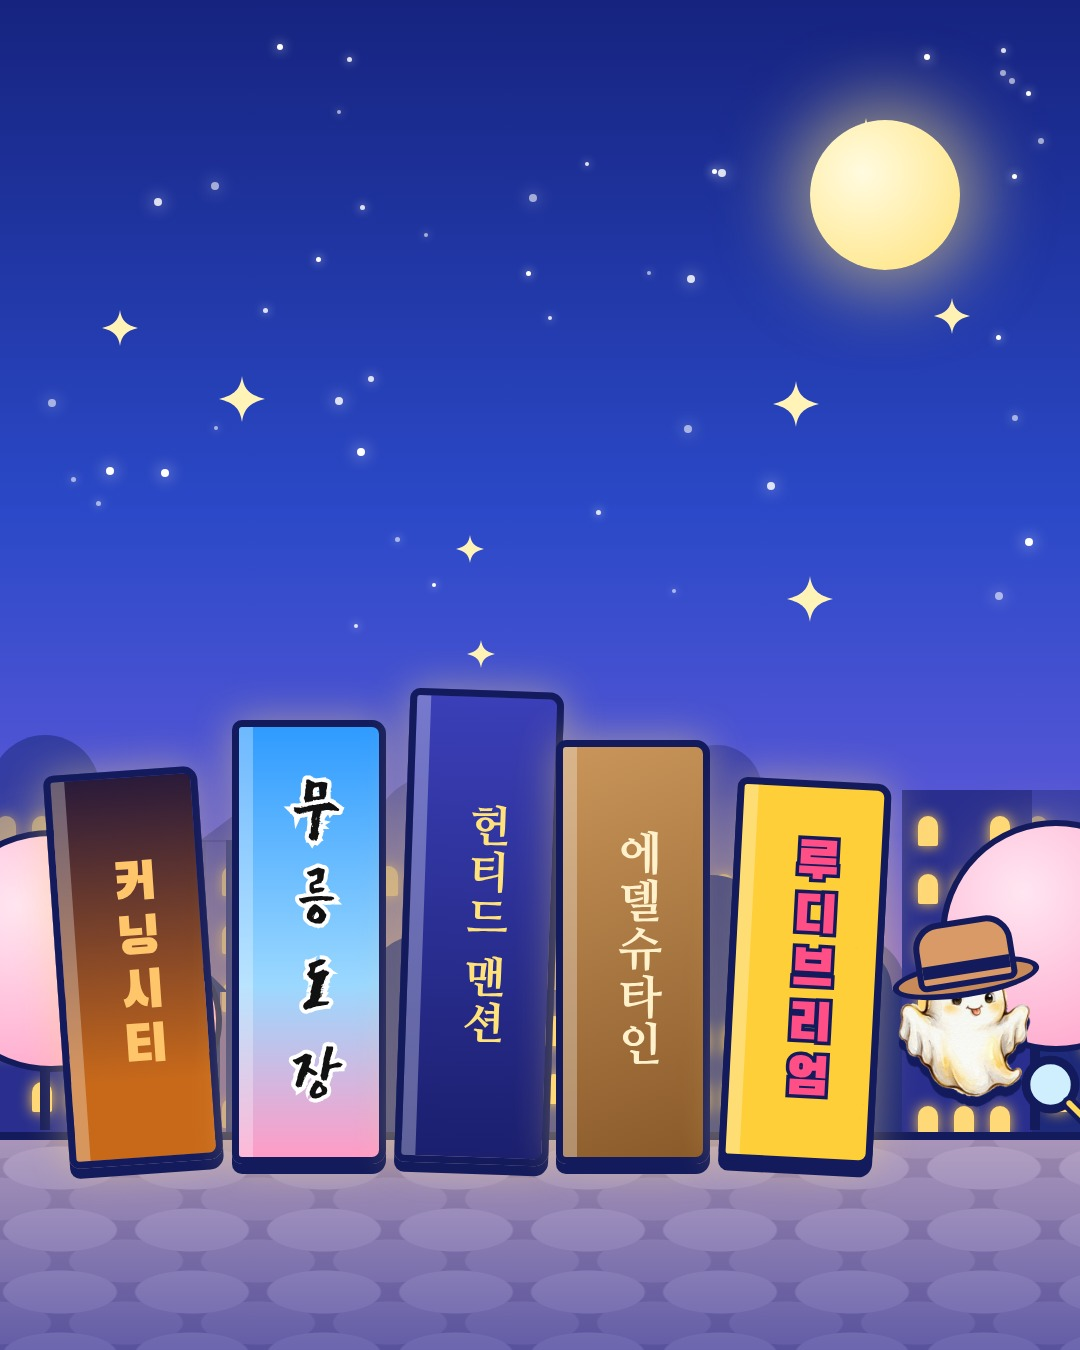
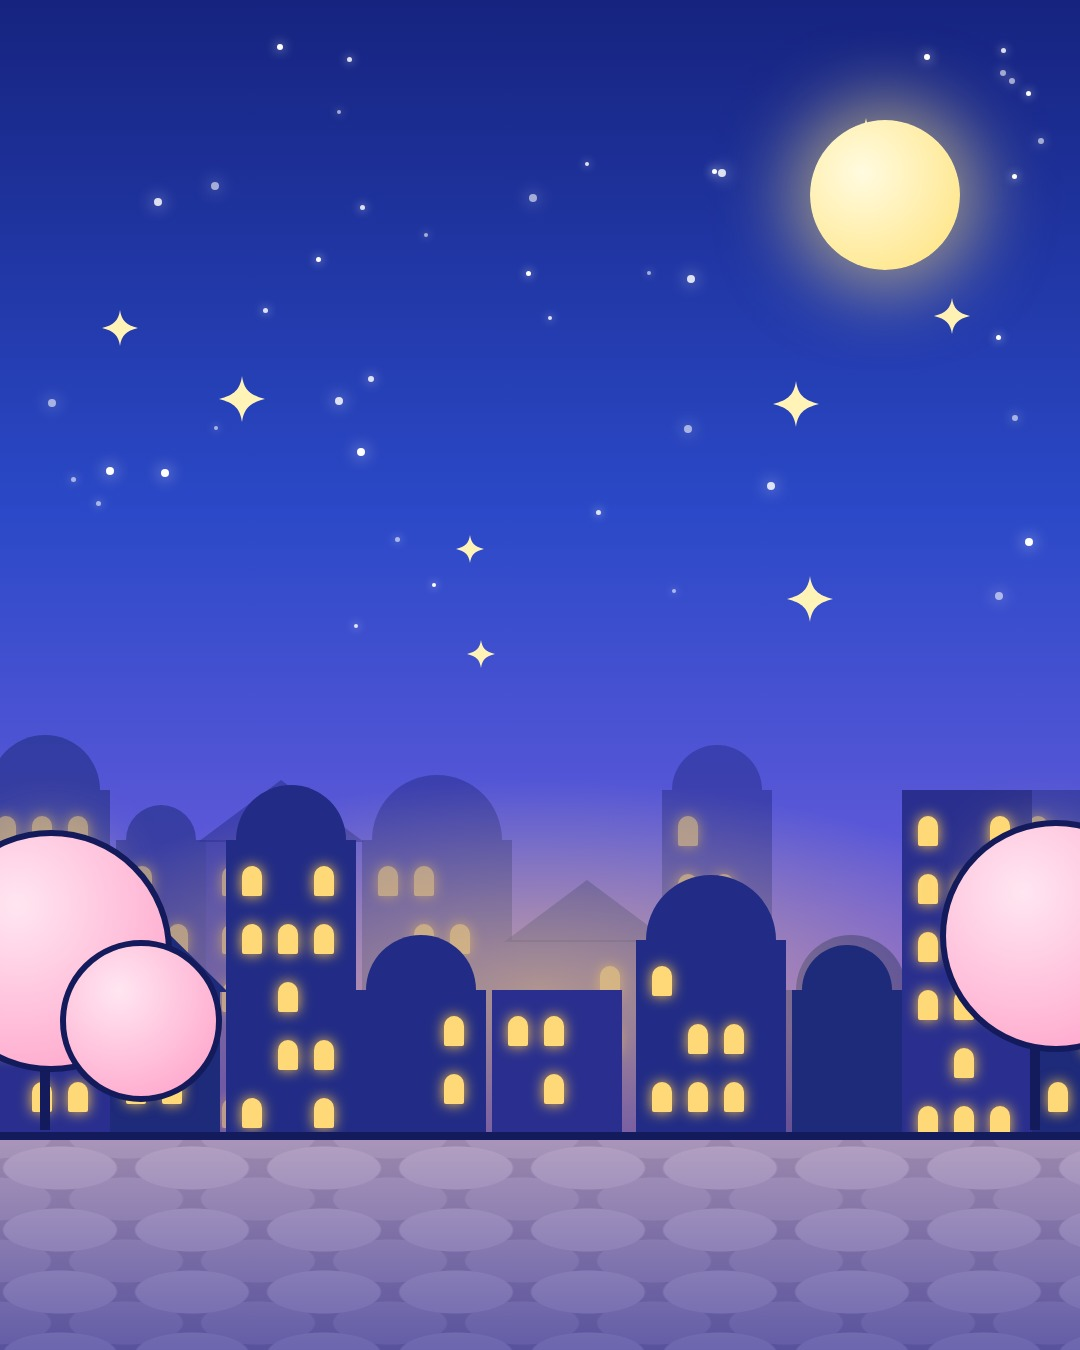
메이플 스토리: 테마를 작고 귀여운 책 캐릭터로
Claude-Session: https://claude.ai/code/session_01RCovqCTjag3WJkZFny7UQu

Changed region(s): [[0.0306, 0.4978, 1.0, 0.8711]]

diff --git a/tools/ig/templates/maple-story.html b/tools/ig/templates/maple-story.html
@@ -11,6 +11,18 @@ html,body{margin:0;width:1080px;height:1920px;font-family:P;font-weight:800;over
 .pill{display:inline-block;font-size:30px;border:5px solid #141B5C;border-radius:999px;padding:8px 22px}
 .chip{display:inline-flex;align-items:center;gap:10px;background:#fff;color:#141B5C;border:6px solid #141B5C;border-radius:22px;box-shadow:0 8px 0 #141B5C;font-size:34px;padding:10px 22px}
 .star{position:absolute;width:6px;height:6px;border-radius:50%;background:#fff;box-shadow:0 0 14px #fff}
+.bud{position:absolute;bottom:200px;width:150px;z-index:8;text-align:center}
+.bk{position:relative;margin:0 auto;width:116px;border:6px solid #141B5C;border-radius:24px 28px 28px 24px;box-shadow:0 10px 0 #141B5C,0 0 36px rgba(255,220,120,.5);overflow:hidden}
+.bk:before{content:"";position:absolute;left:0;top:0;bottom:0;width:16px;background:rgba(255,255,255,.35)}
+.bk:after{content:"";position:absolute;left:30px;top:16px;width:34px;height:14px;border-radius:10px;background:rgba(255,255,255,.55)}
+.face{position:absolute;left:16px;right:0;top:50%;height:60px;margin-top:-10px}
+.eye{position:absolute;top:0;width:13px;height:18px;border-radius:50%;background:#141B5C}
+.eye:after{content:"";position:absolute;left:4px;top:4px;width:6px;height:6px;border-radius:50%;background:#fff}
+.blush{position:absolute;top:20px;width:20px;height:11px;border-radius:50%;background:#FF7FA8;opacity:.75}
+.mouth{position:absolute;left:50%;top:22px;margin-left:-11px;width:22px;height:11px;border:5px solid #141B5C;border-top:0;border-radius:0 0 22px 22px}
+.hat{position:absolute;left:50%;transform:translateX(-50%);font-size:52px;z-index:9;filter:drop-shadow(0 5px 0 #141B5C)}
+.nm{display:inline-block;margin-top:18px;font-size:24px;color:#141B5C;background:#fff;border:5px solid #141B5C;border-radius:999px;padding:5px 14px;box-shadow:0 5px 0 #141B5C;white-space:nowrap}
+.spark{position:absolute;color:#FFE27A;font-size:40px;text-shadow:0 0 14px #FFE27A;z-index:9}
 </style></head><body>
 <div class="top"></div><div class="scene"></div><div class="fade"></div>
 <i class="star" style="left:120px;top:300px"></i><i class="star" style="left:960px;top:280px"></i><i class="star" style="left:860px;top:420px;opacity:.7"></i><i class="star" style="left:70px;top:560px;opacity:.6"></i><i class="star" style="left:520px;top:250px;opacity:.8"></i><i class="star" style="left:1010px;top:520px"></i>
@@ -27,8 +39,9 @@ html,body{margin:0;width:1080px;height:1920px;font-family:P;font-weight:800;over
   <span class="chip" style="background:#FFE27A">🎟 YES24 · 매주 월 오전 10시 예약 오픈</span>
 </div>
 
-<div class="abs" style="left:0;right:0;top:1110px;text-align:center">
+<div class="abs" style="left:0;right:0;top:1150px;text-align:center">
   <div class="t" style="font-size:62px;-webkit-text-stroke:9px #141B5C;text-shadow:0 7px 0 #141B5C">어떤 책부터 펼칠까? 👇</div>
   <div style="margin-top:14px;font-size:34px;color:#fff;text-shadow:0 3px 0 #141B5C">테마별 난이도·공포도·인원 한눈에</div>
 </div>
+<div class="bud" style="left:60px;bottom:215px;transform:rotate(-7deg)"><div class="hat" style="top:-46px">🏙</div><div class="bk" style="height:150px;background:linear-gradient(180deg,#FFB86B,#E07A2E)"><div class="face"><i class="eye" style="left:26px"></i><i class="eye" style="right:26px"></i><i class="blush" style="left:10px"></i><i class="blush" style="right:10px"></i><i class="mouth"></i></div></div><span class="nm" style="color:#141B5C">커닝시티</span></div><div class="bud" style="left:260px;bottom:250px;transform:rotate(4deg)"><div class="hat" style="top:-46px">🥋</div><div class="bk" style="height:172px;background:linear-gradient(180deg,#7FC8FF,#FFB3D1)"><div class="face"><i class="eye" style="left:26px"></i><i class="eye" style="right:26px"></i><i class="blush" style="left:10px"></i><i class="blush" style="right:10px"></i><i class="mouth"></i></div></div><span class="nm" style="color:#141B5C">무릉도장</span></div><div class="bud" style="left:460px;bottom:220px;transform:rotate(-3deg)"><div class="hat" style="top:-46px">🏚</div><div class="bk" style="height:160px;background:linear-gradient(180deg,#8E8CF0,#5A55C8)"><div class="face"><i class="eye" style="left:26px"></i><i class="eye" style="right:26px"></i><i class="blush" style="left:10px"></i><i class="blush" style="right:10px"></i><i class="mouth"></i></div></div><span class="nm" style="color:#141B5C">헌티드 맨션</span></div><div class="bud" style="left:660px;bottom:258px;transform:rotate(5deg)"><div class="hat" style="top:-46px">🏰</div><div class="bk" style="height:176px;background:linear-gradient(160deg,#F2C98E,#C99355)"><div class="face"><i class="eye" style="left:26px"></i><i class="eye" style="right:26px"></i><i class="blush" style="left:10px"></i><i class="blush" style="right:10px"></i><i class="mouth"></i></div></div><span class="nm" style="color:#141B5C">에델슈타인</span></div><div class="bud" style="left:860px;bottom:225px;transform:rotate(-5deg)"><div class="hat" style="top:-46px">🧸</div><div class="bk" style="height:152px;background:linear-gradient(180deg,#FFE27A,#FFC23A)"><div class="face"><i class="eye" style="left:26px"></i><i class="eye" style="right:26px"></i><i class="blush" style="left:10px"></i><i class="blush" style="right:10px"></i><i class="mouth"></i></div></div><span class="nm" style="color:#141B5C">루디브리엄</span></div><span class="spark" style="left:205px;top:1500px">✦</span><span class="spark" style="left:610px;top:1470px;font-size:30px">✦</span><span class="spark" style="left:1010px;top:1520px;font-size:34px">✦</span><span class="spark" style="left:20px;top:1540px;font-size:28px">✦</span><img class="abs" src="../../../public/mascot.png" style="right:70px;top:1330px;width:110px;transform:rotate(8deg);filter:drop-shadow(0 7px 0 #141B5C);z-index:9">
 </body></html>
